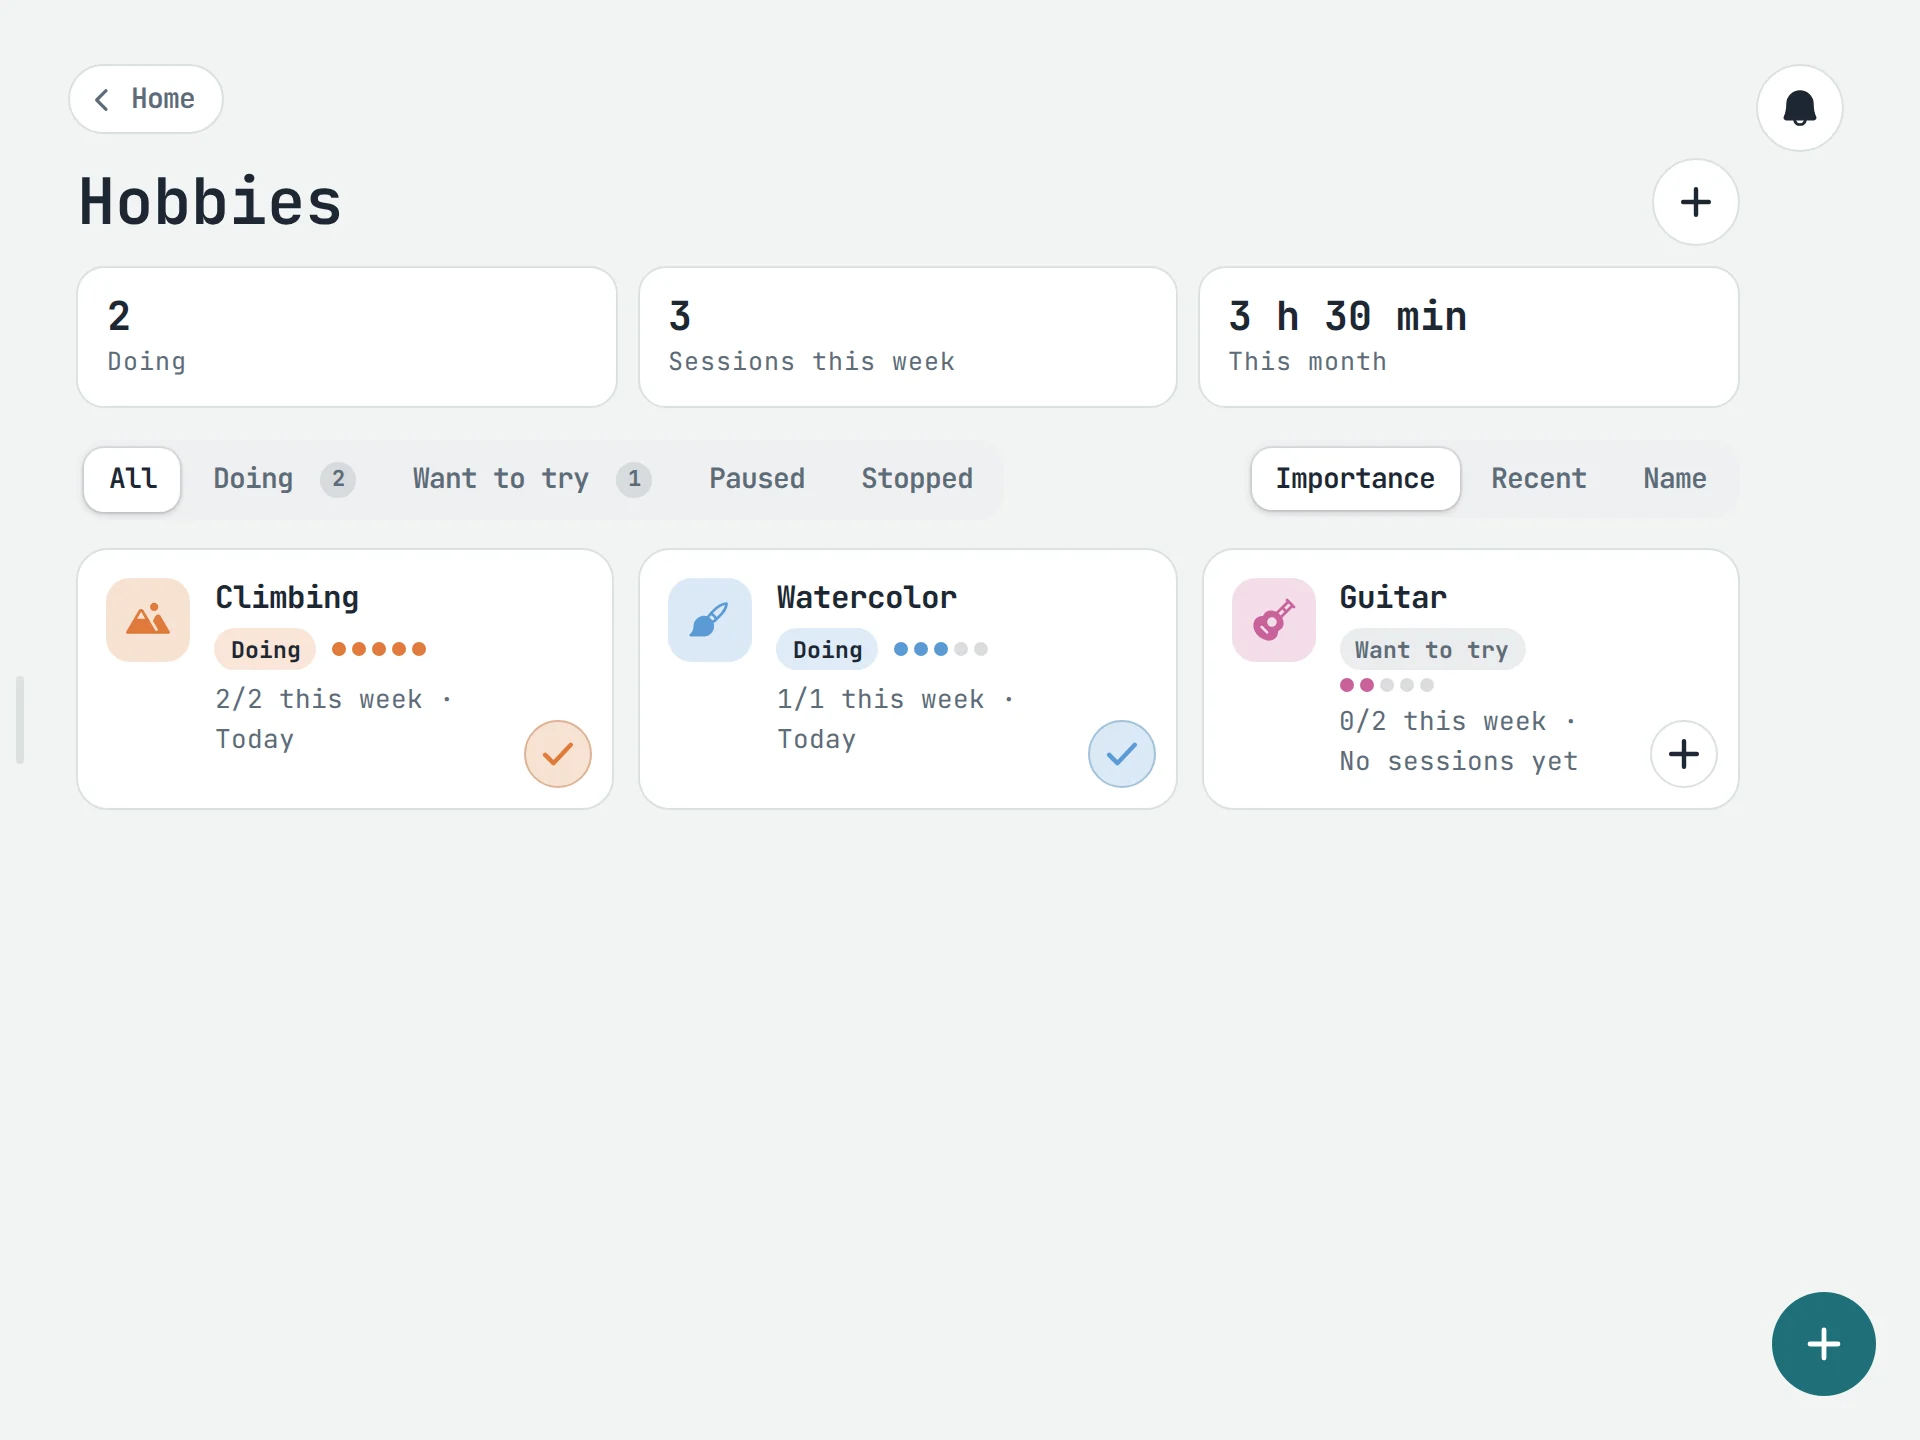
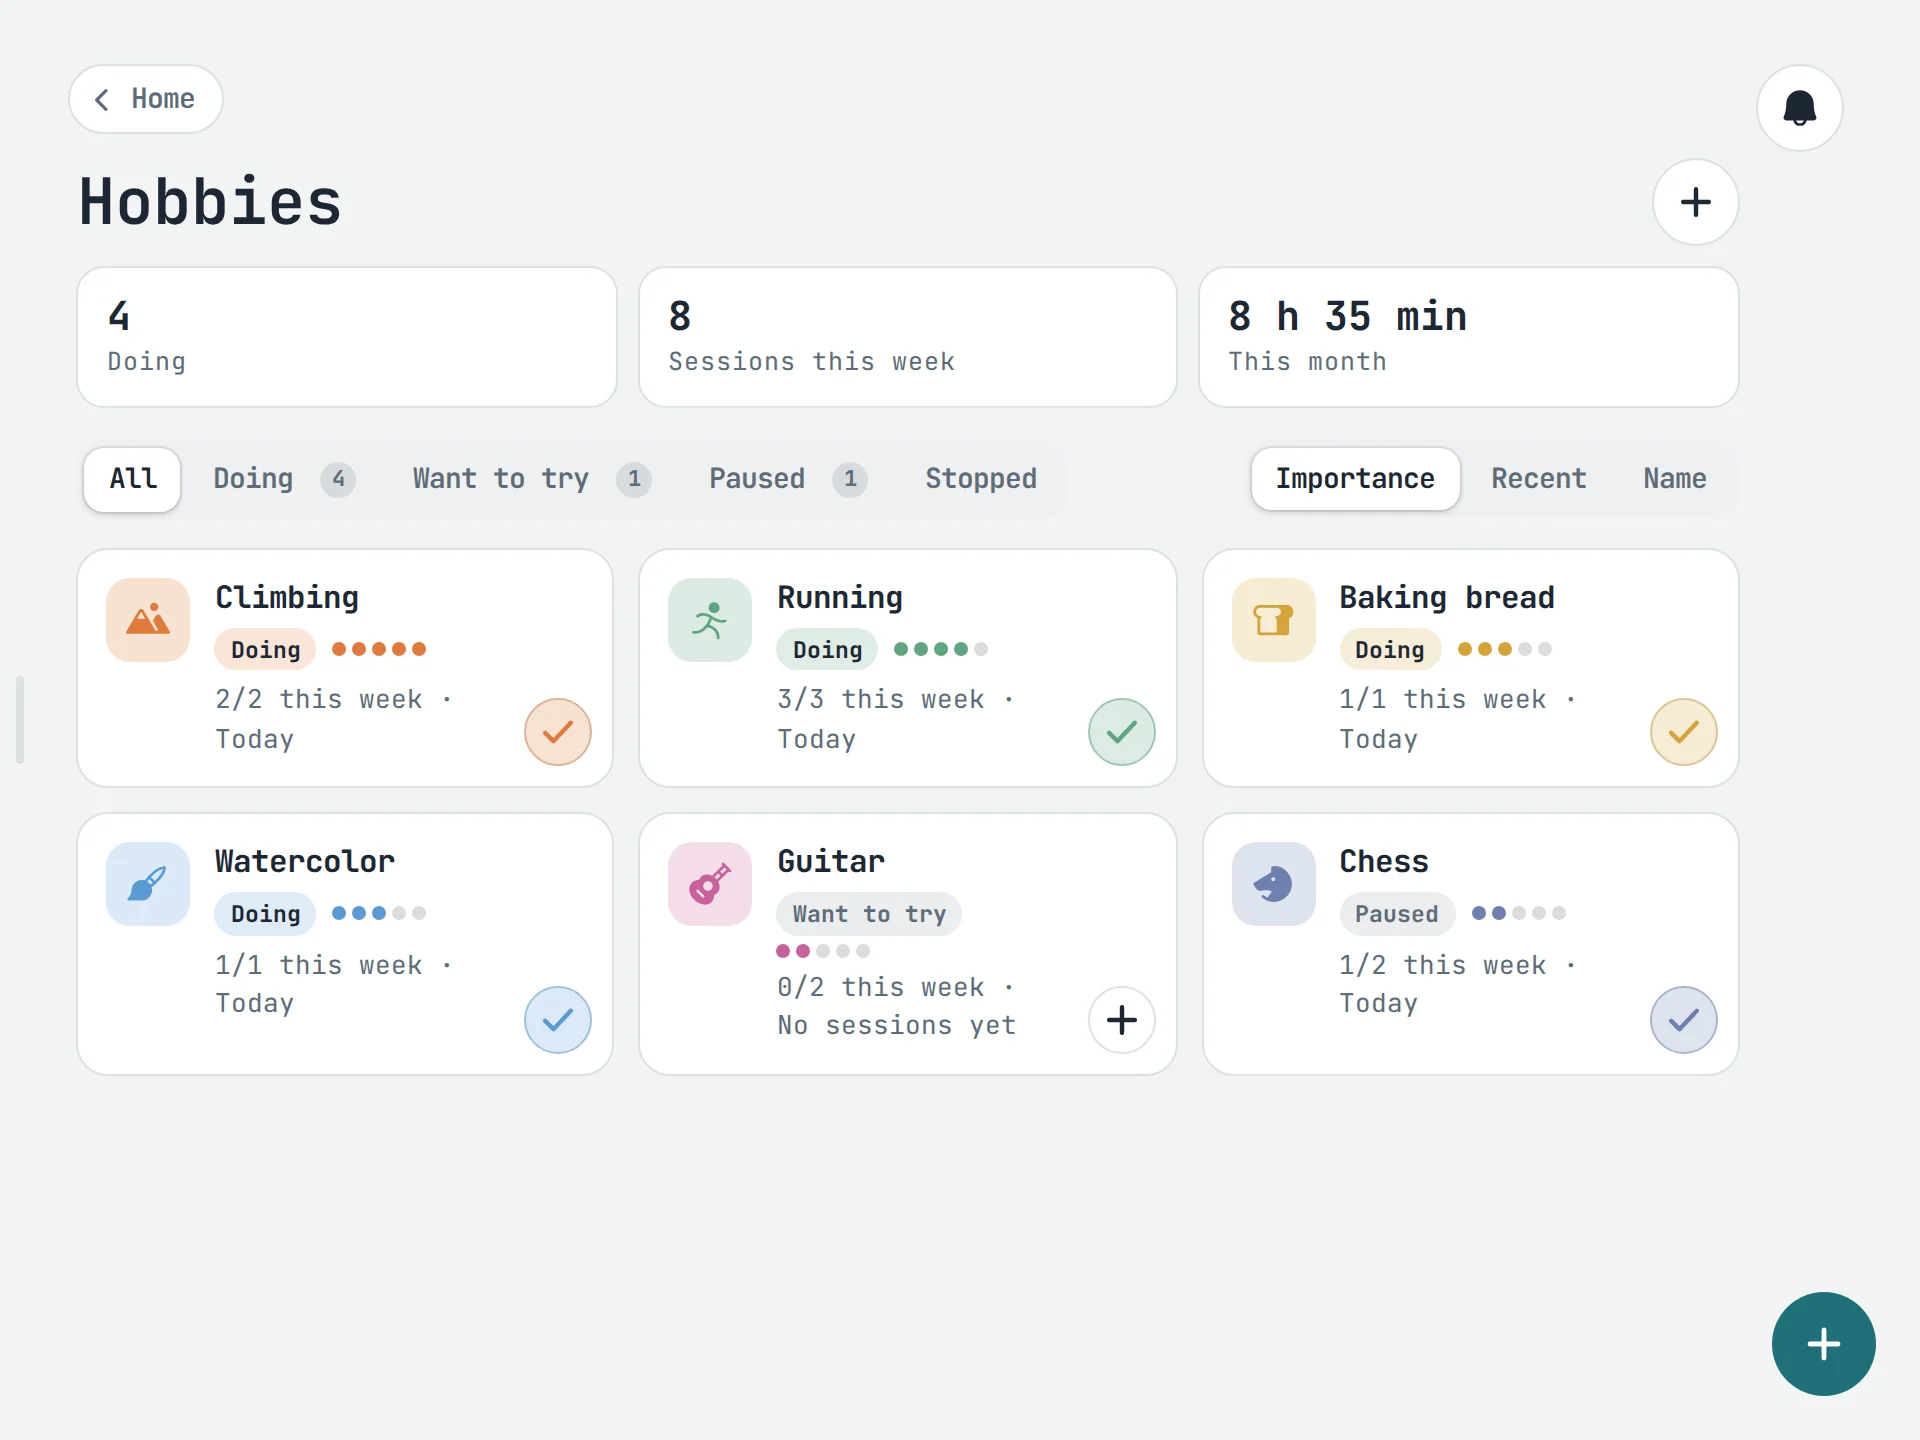
Guides for Hobbies, Skills and Achievements; fuller Hobbies and Skills shots
- New docs pages: Hobbies and Skills (statuses, importance, weekly goals,
  levels, milestones, the log and the file format) and Achievements (tiers,
  XP, levels and all 20 achievements)
- The section rows link to them; the data folder lists hobbies/ and skills/
- The tour says fifteen sections
- Hobbies and Skills screenshots show six of each instead of three

diff --git a/src/data/features.ts b/src/data/features.ts
@@ -49,13 +49,13 @@ export const sections: Section[] = [
     points: ['Streaks and 30-day success rates', 'Numeric goals with units', 'Habits that check themselves off from workouts or meditation', 'A year view of every habit'],
   },
   {
-    id: 'hobbies', name: 'Hobbies', color: '#e07b3c', shot: 'hobbies', doc: 'habits-health',
+    id: 'hobbies', name: 'Hobbies', color: '#e07b3c', shot: 'hobbies', doc: 'hobbies-skills',
     tagline: 'Make time for what you love',
     text: 'Keep the hobbies you do or want to try, how much each one matters, and a weekly goal. Log a session from the list in one tap.',
     points: ['Weekly goals and streaks', 'Milestones and resources per hobby', 'A log of every session'],
   },
   {
-    id: 'skills', name: 'Skills', color: '#6f9a3c', shot: 'skills', doc: 'habits-health',
+    id: 'skills', name: 'Skills', color: '#6f9a3c', shot: 'skills', doc: 'hobbies-skills',
     tagline: 'Learn something, level by level',
     text: 'Track the skills you want to learn, from beginner to expert, with milestones to check off and your practice time.',
     points: ['Six levels per skill', 'Milestones and resources', 'Practice log'],
@@ -85,7 +85,7 @@ export const sections: Section[] = [
     points: ['Average mood and the emotions you felt most', 'Tasks done, workouts and finished items', 'Your best habits and most active day', 'Journal highlights from the month'],
   },
   {
-    id: 'achievements', name: 'Achievements', color: '#d9a521', shot: 'achievements', doc: 'insights-storage-music',
+    id: 'achievements', name: 'Achievements', color: '#d9a521', shot: 'achievements', doc: 'achievements',
     tagline: 'Level up as you go',
     text: 'Earn XP and levels from what you already do: reading, watching, finishing tasks, keeping habits and learning.',
     points: ['20 achievements with six tiers each', 'Bronze to Legend', 'Counted from your own files'],

diff --git a/src/content/docs/hobbies-skills.md b/src/content/docs/hobbies-skills.md
@@ -1,0 +1,80 @@
+---
+title: Hobbies and Skills
+description: Keep the hobbies you do or want to try and the skills you're learning, with goals, levels, milestones and a practice log.
+group: Sections
+order: 14.5
+color: '#e07b3c'
+---
+
+# Hobbies and Skills
+
+<p class="lead">Two sections that work the same way: one for the things you do for fun, one for the things you're learning.</p>
+
+## Hobbies
+
+Add a hobby you do, or one you want to try: painting, climbing, guitar. For each one you set:
+
+- **Status**: Doing, Want to try, Paused or Stopped
+- **Importance**: from *Nice to have* to *Essential*, so the list can show what matters most first
+- **A weekly goal**: how many times a week you'd like to do it
+- An icon and a color
+
+**Log a session** from the list in one tap, or open the hobby to add the minutes and a note. The card shows your sessions this week against the goal, and the top of the page totals your sessions this week and your time this month.
+
+## Skills
+
+Add a skill you want to learn: Spanish, woodworking, soldering. Skills have the same status, importance, icon and color as hobbies (Learning, Want to learn, Paused or Learned), plus a **level**:
+
+| Level | |
+| --- | --- |
+| 0 | Not started |
+| 1 | Beginner |
+| 2 | Novice |
+| 3 | Intermediate |
+| 4 | Advanced |
+| 5 | Expert |
+
+Raise the level as you improve. **Log practice** to keep track of the time you put in. The top of the page shows how many skills you're learning, the levels you've gained and the milestones you've reached.
+
+## Milestones and resources
+
+Both hobbies and skills can have:
+
+- **Milestones**: steps to check off, such as "Finish a blue route" or "Hold a 30-minute conversation"
+- **Resources**: links and notes, such as a course, a video channel or a teacher's number
+
+## Finding things
+
+Filter the list by status, and sort it by importance, most recent activity or name (and level, for skills).
+
+## In your files
+
+Each hobby is a file in `hobbies/` and each skill a file in `skills/`. The settings are front matter, followed by the description, then `## Milestones`, `## Resources` and `## Log` sections:
+
+```markdown
+---
+name: Spanish
+status: active
+importance: 5
+level: 3
+created: 2026-09-20
+---
+
+Conversational Spanish before the trip.
+
+## Milestones
+
+- [x] Order food without English
+- [ ] Hold a 30-minute conversation
+
+## Resources
+
+Language exchange on Thursdays
+
+## Log
+
+- 2026-11-06: 20 · Flashcards
+- 2026-11-04: 30 · Podcast
+```
+
+Each log line is a date, the minutes, and an optional note after `·`.

diff --git a/src/content/docs/achievements.md b/src/content/docs/achievements.md
@@ -1,0 +1,47 @@
+---
+title: Achievements
+description: XP, levels and 20 achievements with six tiers each, counted from what you already do in Prodify.
+group: Sections
+order: 17.5
+color: '#d9a521'
+---
+
+# Achievements
+
+<p class="lead">Prodify notices what you already do, reading, finishing tasks, keeping habits and learning, and turns it into achievements, XP and levels.</p>
+
+## How it works
+
+There's nothing to set up or log separately. Achievements are counted from your own files every time you open the page: finish a book in Collections or check off a task, and its achievement moves forward.
+
+Each achievement has six **tiers**, and each tier you unlock earns XP:
+
+| Tier | XP |
+| --- | --- |
+| Bronze | 50 |
+| Silver | 100 |
+| Gold | 200 |
+| Platinum | 350 |
+| Diamond | 550 |
+| Legend | 800 |
+
+Your XP sets your **level**. Each level needs a little more XP than the one before it. The top of the page shows your level, the XP to the next one and how many tiers you've unlocked. **Almost there** lists the achievements closest to their next tier.
+
+A message pops up when you unlock a new tier.
+
+## The 20 achievements
+
+| Group | Achievements |
+| --- | --- |
+| Collections | Bookworm (books read), Cinephile (movies watched), Binge watcher (series seasons), Otaku (anime finished), Gamer (games finished), Collector (items in your collections) |
+| Tasks and projects | Task master (tasks done), Finisher (projects completed), Deep focus (hours of focus sessions) |
+| Habits | Habit builder (habit goals met), Unbroken (longest daily streak) |
+| Journal and notes | Journaler (entries), Self-aware (mood check-ins), Curious mind (daily questions answered), Note taker (notes written), Wordsmith (words in notes and journal) |
+| Health | Athlete (gym workouts), Mindful (days with meditation) |
+| Hobbies and skills | Hobbyist (hobby sessions), Lifelong learner (skill levels gained) |
+
+If you turn a section off, its achievements are hidden too.
+
+## Privacy
+
+Everything is counted on your device from your own files. Nothing is sent anywhere, and there's no leaderboard.

diff --git a/src/content/docs/data-folder.md b/src/content/docs/data-folder.md
@@ -32,6 +32,8 @@ Prodify/
 │   └── moods.md      mood check-ins
 ├── projects/         one file per project
 ├── habits/           one file per habit
+├── hobbies/          one file per hobby, with its sessions
+├── skills/           one file per skill, with its practice log
 ├── health/           workouts, meditation and body log
 ├── collections/      book/, movie/, series/, anime/, game/
 ├── attachments/      photos, images and PDFs

diff --git a/src/content/docs/tour.md b/src/content/docs/tour.md
@@ -8,7 +8,7 @@ color: '#5b9bd5'
 
 # A quick tour
 
-<p class="lead">Prodify is one app with twelve sections. Here's how to get around and make it yours.</p>
+<p class="lead">Prodify is one app with fifteen sections. Here's how to get around and make it yours.</p>
 
 ## Home
 
